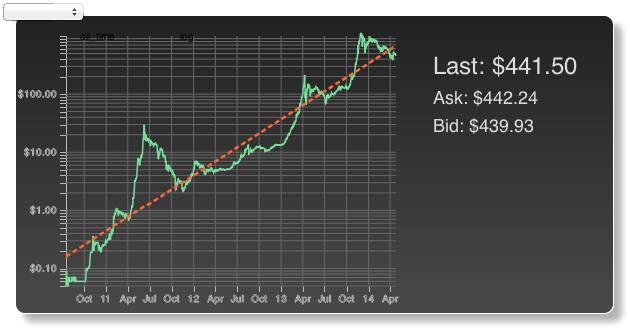
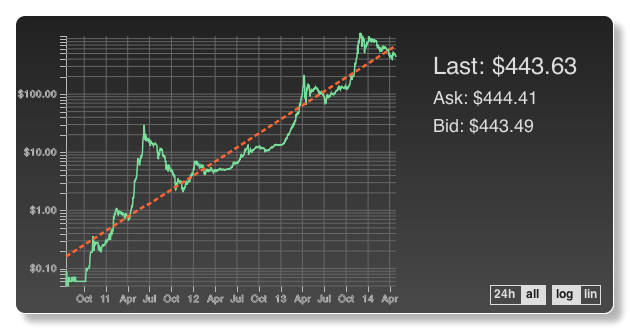
better togglers and install script

diff --git a/source/scripts/rates.js b/source/scripts/rates.js
@@ -2,9 +2,10 @@
 var btc_ave_api = {
   'ticker': "https://api.bitcoinaverage.com/ticker/USD/",
 
-  "24h_sliding": "https://api.bitcoinaverage.com/history/USD/per_minute_24h_sliding_window.csv",
-  "all_time": "https://api.bitcoinaverage.com/history/USD/per_day_all_time_history.csv",
-  "global_24h_sliding": "https://api.bitcoinaverage.com/history/USD/per_minute_24h_global_average_sliding_window.csv",
+  "24h": "https://api.bitcoinaverage.com/history/USD/per_minute_24h_sliding_window.csv",
+  "all": "https://api.bitcoinaverage.com/history/USD/per_day_all_time_history.csv",
+
+  "global_24h": "https://api.bitcoinaverage.com/history/USD/per_minute_24h_global_average_sliding_window.csv",
   "monthly_sliding": "https://api.bitcoinaverage.com/history/USD/per_hour_monthly_sliding_window.csv",
   "volumes": "https://api.bitcoinaverage.com/history/USD/volumes.csv"
 };
@@ -15,7 +16,7 @@ var margin = {top: 20, right: 20, bottom: 30, left: 50},
 
 var format, x, y, xAxis, yAxis, line, regression_line, svg, dateLabelFormat;
 
-var range = 'all_time', mode = 'log';
+var range = 'all', mode = 'log';
 
 function createAxes() {
 
@@ -24,7 +25,7 @@ function createAxes() {
 
   switch (range) {
 
-    case 'all_time':
+    case 'all':
       xAxis = d3.svg.axis()
         .scale(x)
         .tickFormat(dateLabelFormat)
@@ -32,7 +33,7 @@ function createAxes() {
         .orient("bottom");
       break;
 
-    case '24h_sliding':
+    case '24h':
       xAxis = d3.svg.axis()
         .scale(x)
         .ticks(8)
@@ -94,17 +95,41 @@ function init() {
     .append("g")
     .attr("transform", "translate(" + margin.left + "," + margin.top + ")");
 
+  updateTogglers();
   update();
 }
 
 
 function modeChanged(e) {
-  mode = e.value;
+  mode = e;
+  updateTogglers();
   updateGraph();
 }
 function rangeChanged(e) {
-  range = e.value;
+  range = e;
+  updateTogglers();
   updateGraph();
+}
+
+
+function updateTogglers() {
+  removeClass('active');
+  d3.select('#mode-'+mode).classed('active', true);
+  d3.select('#range-'+range).classed('active', true);
+}
+
+function removeClass(className) {
+  // convert the result to an Array object
+  var els = Array.prototype.slice.call(
+    document.getElementsByClassName(className)
+  );
+  for (var i = 0, l = els.length; i < l; i++) {
+    var el = els[i];
+    el.className = el.className.replace(
+      new RegExp('(^|\\s+)' + className + '(\\s+|$)', 'g'),
+      '$1'
+    );
+  }
 }
 
 var graph, regression;

diff --git a/source/index.html b/source/index.html
@@ -14,14 +14,25 @@
 
   <div id="container">
 
-    <select id="mode-select" onchange="modeChanged(this)">
-      <option value="log">log</option>
-      <option value="linear">linear</option>
-    </select>
-    <select id="range-select" onchange="rangeChanged(this)">
-      <option value="all_time">all_time</option>
-      <option value="24h_sliding">24h_sliding</option>
-    </select>
+    <div id="top-bar">
+
+      <span class="range-toggler" id="range-24h" onclick="rangeChanged('24h')">
+        24h
+      </span>
+      <span class="range-toggler" id="range-all" onclick="rangeChanged('all')">
+        all
+      </span>
+
+      &nbsp;
+
+      <span class="mode-toggler" id="mode-log" onclick="modeChanged('log')">
+        log
+      </span>
+      <span class="mode-toggler" id="mode-linear" onclick="modeChanged('linear')">
+        lin
+      </span>
+
+    </div>
 
     <div id="readout"></div>
 

diff --git a/source/styles.css b/source/styles.css
@@ -33,19 +33,26 @@ body {
   height: 297px;
 }
 
-#range-select {
-  -apple-dashboard-region: dashboard-region(control rectangle 4px 4px 4px 4px);
+#top-bar {
   position: absolute;
-  top: 10px;
-  left: 60px;
-}
-#mode-select {
-  -apple-dashboard-region: dashboard-region(control rectangle 4px 4px 4px 4px);
-  position: absolute;
-  top: 10px;
-  left: 160px;
+  right: 12px;
+  bottom: 12px;
 }
 
+.range-toggler, .mode-toggler {
+  -apple-dashboard-region: dashboard-region(control rectangle 4px 4px 4px 4px);
+  cursor: pointer;
+
+  font-size: 12px;
+  font-weight: bold;
+  background-color: transparent;
+  padding: 3px;
+  border: 1px solid #ddd;
+}
+.active {
+  background-color: #ddd;
+  color: #212121;
+}
 text {
   color: #bbb;
   stroke: #bbb;
@@ -91,7 +98,7 @@ text {
 
 #readout {
   width: 180px;
-  height: 280px;
+  height: 150px;
   position: absolute;
   top: 40px;
   right: 0px;

diff --git a/Gruntfile.js b/Gruntfile.js
@@ -37,7 +37,7 @@ module.exports = function(grunt) {
       run_shell: {
         type : 'shell',
         cmd  : './clear_dock_cache.sh'
-      },
+      }
     },
 
   });

diff --git a/README.md b/README.md
@@ -9,9 +9,20 @@ OSX dashboard widget showing latest USD/BTC rate
 
 Clone the repo, then...
 
-Install various modules and components:
+* Install various modules and components:
 `npm install`
 `bower install`
+
+* Build the widget:
+
+`grunt build`
+The target folder "BitcoinRate.wdgt" is now a clickable widget you can install into dashboard.
+
+* Install the widget:
+
+`./install.sh`
+
+### Sub-tasks: ###
 
 Generate the "default" image by taking a screen cap of the widget:
 `./phantom_screenshot.js`
@@ -22,4 +33,3 @@ Copy the bower component dependencies into the source folder:
 Copy the source files into "BitcoinRate.wdgt" folder:
 `grunt copy`
 
-The target folder "BitcoinRate.wdgt" is now a clickable widget you can install into dashboard.
